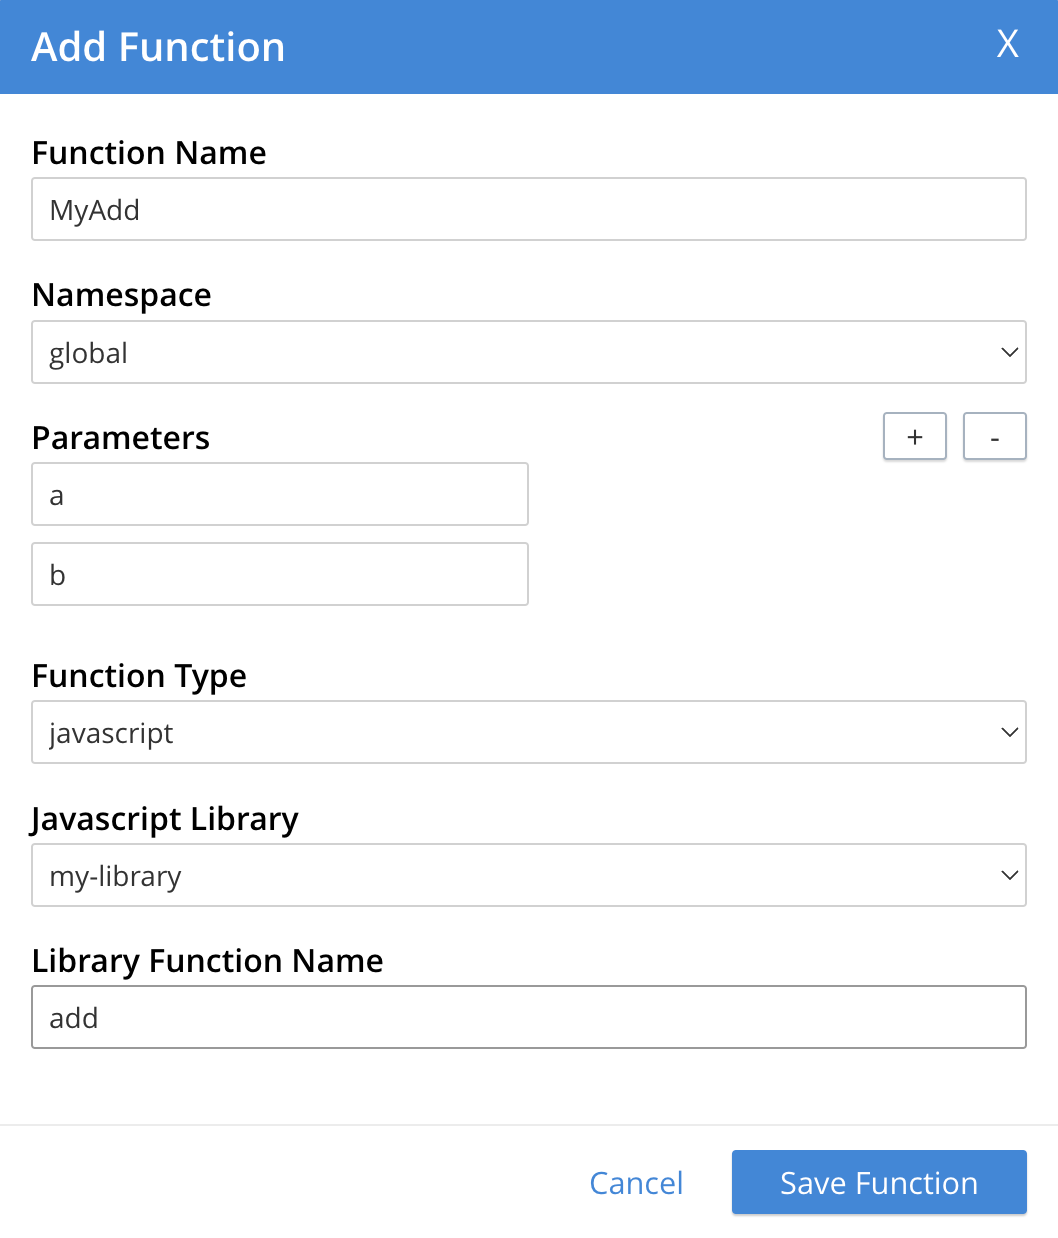
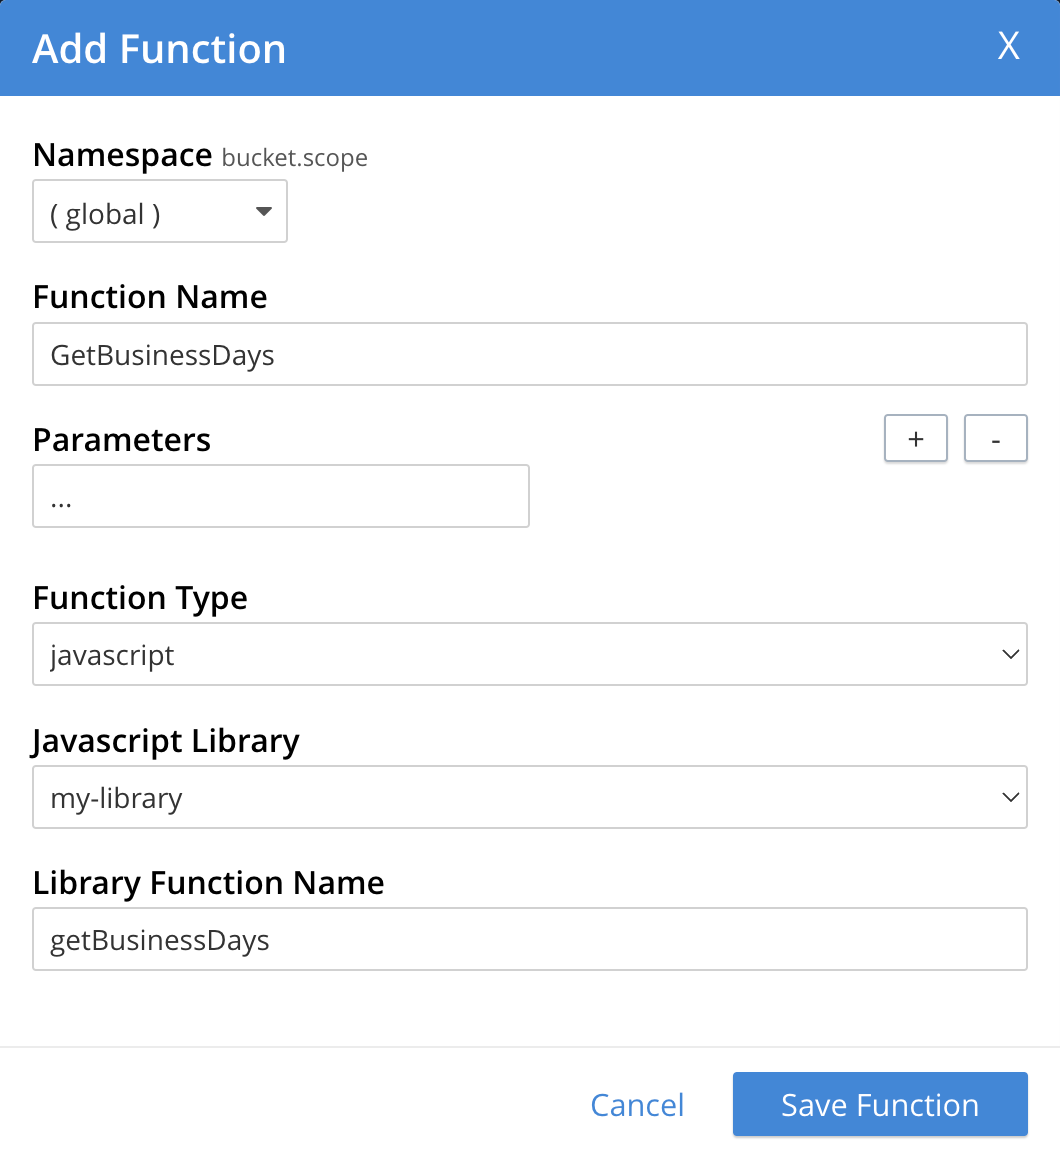
Work in progress

diff --git a/modules/guides/examples/javascript-udfs/get-business-days.js b/modules/guides/examples/javascript-udfs/get-business-days.js
@@ -1,0 +1,11 @@
+function getBusinessDays(startDate, endDate) {
+    let count = 0;
+    const curDate = new Date(new Date(startDate).getTime());
+    while (curDate <= new Date(endDate)) {
+        const dayOfWeek = curDate.getDay();
+        if(dayOfWeek !== 0 && dayOfWeek !== 6)
+            count++;
+        curDate.setDate(curDate.getDate() + 1);
+    }
+    return count;
+}
